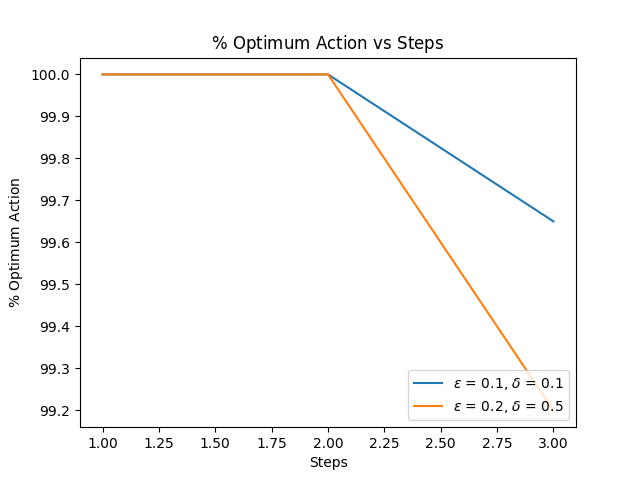
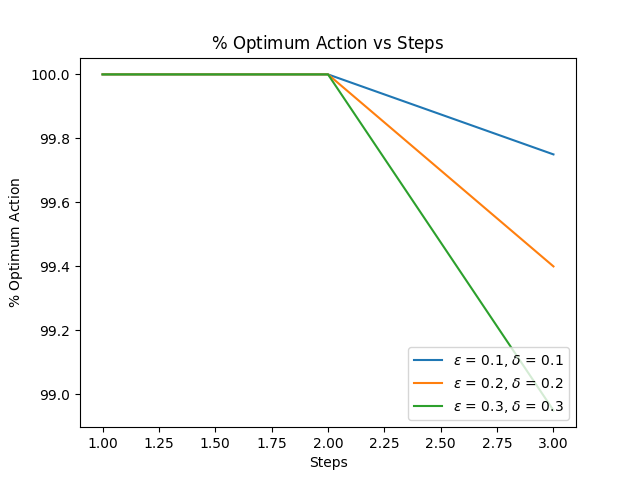
Comparison added

diff --git a/compare.py b/compare.py
@@ -1,0 +1,155 @@
+import experiment_testbed
+import numpy as np
+import random
+import math
+import matplotlib.pyplot as plt
+
+
+def eps_rewards(means, times_list, epsilon, optimal_list):
+    means1 = means.copy()
+    times_selected1 = times_list.copy()
+    q = np.zeros((2000, 10))
+    reward_list = list()
+    optimal_selection_list = list()
+    n_bandits = len(means1)
+    n_iterations = 1000
+
+    for i in range(0, n_iterations):
+        curr_reward = 0
+        optimal_selection = 0
+        for j in range(0, n_bandits):
+            x = random.uniform(0, 1)
+
+            if x > epsilon:
+                action = np.argmax(q[j])
+            else:
+                action = random.randint(0, 9)
+
+            if action == optimal_list[j]:
+                optimal_selection += 1
+
+            reward = np.random.normal(means1[j][action], 1)
+            times_selected1[j][action] += 1
+            curr_reward += reward
+            q[j][action] = q[j][action] + (reward - q[j][action]) / (times_selected1[j][action])
+
+        reward_list.append(curr_reward / n_bandits)
+        optimal_selection_list.append(optimal_selection * 100 / n_bandits)
+
+    return reward_list, optimal_selection_list
+
+
+def softmax_rewards(means, times_list, temperature, optimal_list):
+    means1 = means.copy()
+    times_selected1 = times_list.copy()
+    q = np.zeros((2000, 10))
+    reward_list = list()
+    optimal_selection_list = list()
+    n_bandits = len(means1)
+    n_iterations = 1000
+
+    for i in range(0, n_iterations):
+        curr_reward = 0
+        optimal_selection = 0
+        for j in range(0, n_bandits):
+            q_exp = np.exp(q[j] / temperature)
+            softmax_probability = q_exp / sum(q_exp)
+            action = np.random.choice(range(10), 1, p=softmax_probability)[0]
+
+            if action == optimal_list[j]:
+                optimal_selection += 1
+
+            reward = np.random.normal(means1[j][action], 1)
+            times_selected1[j][action] += 1
+            curr_reward += reward
+            q[j][action] = q[j][action] + (reward - q[j][action]) / (times_selected1[j][action])
+
+        reward_list.append(curr_reward / n_bandits)
+        optimal_selection_list.append(optimal_selection * 100 / n_bandits)
+
+    return reward_list, optimal_selection_list
+
+
+def ucb_rewards(means, times_list, optimal_list, confidence):
+    means1 = means.copy()
+    times_selected1 = times_list.copy()
+    q = np.zeros((2000, 10))
+    reward_list = list()
+    optimal_selection_list = list()
+    n_bandits = len(means1)
+    n_iterations = 1000
+    n_arms = len(means1[0])
+
+    # init_selection = np.random.normal(means1, 1)
+    # reward_list.append(np.mean(init_selection))
+
+    for i in range(1, n_iterations + 1):
+        curr_reward = 0
+        optimal_selection = 0
+        for j in range(0, n_bandits):
+            ucb_list = list()
+            for k in range(n_arms):
+                ucb_list.append(q[j][k] + confidence * math.sqrt((2 * math.log(i)) / times_selected1[j][k]))
+            action = np.argmax(ucb_list)
+
+            if action == optimal_list[j]:
+                optimal_selection += 1
+
+            reward = np.random.normal(means1[j][action], 1)
+            times_selected1[j][action] += 1
+            curr_reward += reward
+            q[j][action] = q[j][action] + (reward - q[j][action]) / (times_selected1[j][action])
+
+        reward_list.append(curr_reward / n_bandits)
+        optimal_selection_list.append(optimal_selection * 100 / n_bandits)
+
+    return reward_list, optimal_selection_list
+
+
+fig_rewards = plt.figure().add_subplot(111)
+fig_optimal = plt.figure().add_subplot(111)
+
+x_axis = list()
+n_iterations = 1000
+
+for i in range(0, n_iterations):
+    x_axis.append(i)
+
+n_bandits = 2000
+n_arms = 10
+print('starting greedy')
+means_list, times_selected = experiment_testbed.initialize(n_bandits, n_arms)
+optimal_list = np.argmax(means_list, 1)
+eps_rewards, eps_optimal = eps_rewards(means_list, times_selected, 0.1, optimal_list)
+
+fig_rewards.plot(x_axis, eps_rewards, label=r'$\epsilon$-greedy')
+fig_optimal.plot(x_axis, eps_optimal, label=r'$\epsilon$-greedy')
+print('greedy done')
+
+means_list, times_selected = experiment_testbed.initialize(n_bandits, n_arms)
+optimal_list = np.argmax(means_list, 1)
+softmax_rewards, softmax_optimal = softmax_rewards(means_list, times_selected, 0.1, optimal_list)
+
+fig_rewards.plot(x_axis, softmax_rewards, label='softmax')
+fig_optimal.plot(x_axis, softmax_optimal, label='softmax')
+print('softmax done')
+
+means_list, times_selected = experiment_testbed.initialize(n_bandits, n_arms)
+optimal_list = np.argmax(means_list, 1)
+ucb_rewards, ucb_optimal = ucb_rewards(means_list, times_selected, optimal_list, 1)
+
+fig_rewards.plot(x_axis, ucb_rewards, label='UCB-1')
+fig_optimal.plot(x_axis, ucb_optimal, label='UCB-1')
+print('ucb done')
+
+fig_rewards.set_xlabel('Steps')
+fig_rewards.set_ylabel('Average Reward')
+fig_rewards.title.set_text('Average Reward vs Steps')
+fig_rewards.legend(loc='lower right')
+
+fig_optimal.set_xlabel('Steps')
+fig_optimal.set_ylabel(r'$\%$ Optimal Action')
+fig_optimal.title.set_text(r'$\%$ Optimum Action vs Steps')
+fig_optimal.legend(loc='lower right')
+
+plt.show()

diff --git a/ucb1.py b/ucb1.py
@@ -5,7 +5,7 @@ import math
 import experiment_testbed
 
 
-def get_rewards(means, times_list, optimal_list):
+def get_rewards(means, times_list, optimal_list, confidence):
     means1 = means.copy()
     times_selected1 = times_list.copy()
     q = np.zeros((2000, 10))
@@ -13,6 +13,7 @@ def get_rewards(means, times_list, optimal_list):
     optimal_selection_list = list()
     n_bandits = len(means1)
     n_iterations = 1000
+    n_arms = len(means1[0])
 
     # init_selection = np.random.normal(means1, 1)
     # reward_list.append(np.mean(init_selection))
@@ -22,8 +23,8 @@ def get_rewards(means, times_list, optimal_list):
         optimal_selection = 0
         for j in range(0, n_bandits):
             ucb_list = list()
-            for k in range(10):
-                ucb_list.append(q[j][k] + math.sqrt((2 * math.log(i)) / times_selected1[j][k]))
+            for k in range(n_arms):
+                ucb_list.append(q[j][k] + confidence * math.sqrt((2 * math.log(i)) / times_selected1[j][k]))
             action = np.argmax(ucb_list)
 
             if action == optimal_list[j]:
@@ -52,17 +53,23 @@ bandits = 2000
 arms = 10
 means_list, times_selected = experiment_testbed.initialize(bandits, arms)
 
-optimal_arms = np.argmax(means_list, 1)
-rewards, optimal_selections = get_rewards(means_list, times_selected, optimal_arms)
-fig_rewards.plot(x_axis, rewards)
-fig_optimal.plot(x_axis, optimal_selections)
+confidence_list = [1, 0.98, 0.95]
+
+for i in range(0, len(confidence_list)):
+    curr_confidence = confidence_list[i]
+    optimal_arms = np.argmax(means_list, 1)
+    rewards, optimal_selections = get_rewards(means_list, times_selected, optimal_arms, curr_confidence)
+    fig_rewards.plot(x_axis, rewards, label='confidence = ' + str(curr_confidence))
+    fig_optimal.plot(x_axis, optimal_selections, label='confidence = ' + str(curr_confidence))
 
 fig_rewards.set_xlabel('Steps')
 fig_rewards.set_ylabel('Average Reward')
 fig_rewards.title.set_text('Average Reward vs Steps')
+fig_rewards.legend(loc='lower right')
 
 fig_optimal.set_xlabel('Steps')
 fig_optimal.set_ylabel(r'$\%$ Optimal Action')
 fig_optimal.title.set_text(r'$\%$ Optimum Action vs Steps')
+fig_optimal.legend(loc='lower right')
 
 plt.show()

diff --git a/mea.py b/mea.py
@@ -60,13 +60,13 @@ def run_mea(means, epsilon, delta):
 bandits = 2000
 arms = 10
 means_list, times_selected = experiment_testbed.initialize(bandits, arms)
-epsilons = [0.1, 0.2]
-deltas = [0.1, 0.5]
+epsilons = [0.1, 0.2, 0.3]
+deltas = [0.1, 0.2, 0.3]
 
 fig_rewards = plt.figure().add_subplot(111)
 fig_optimum = plt.figure().add_subplot(111)
 
-for i in range(0, 2):
+for i in range(0, 3):
     curr_epsilon = epsilons[i]
     curr_delta = deltas[i]
     best_arms, rewards, optimum_list, x_axis = run_mea(means_list, curr_epsilon, curr_delta)
